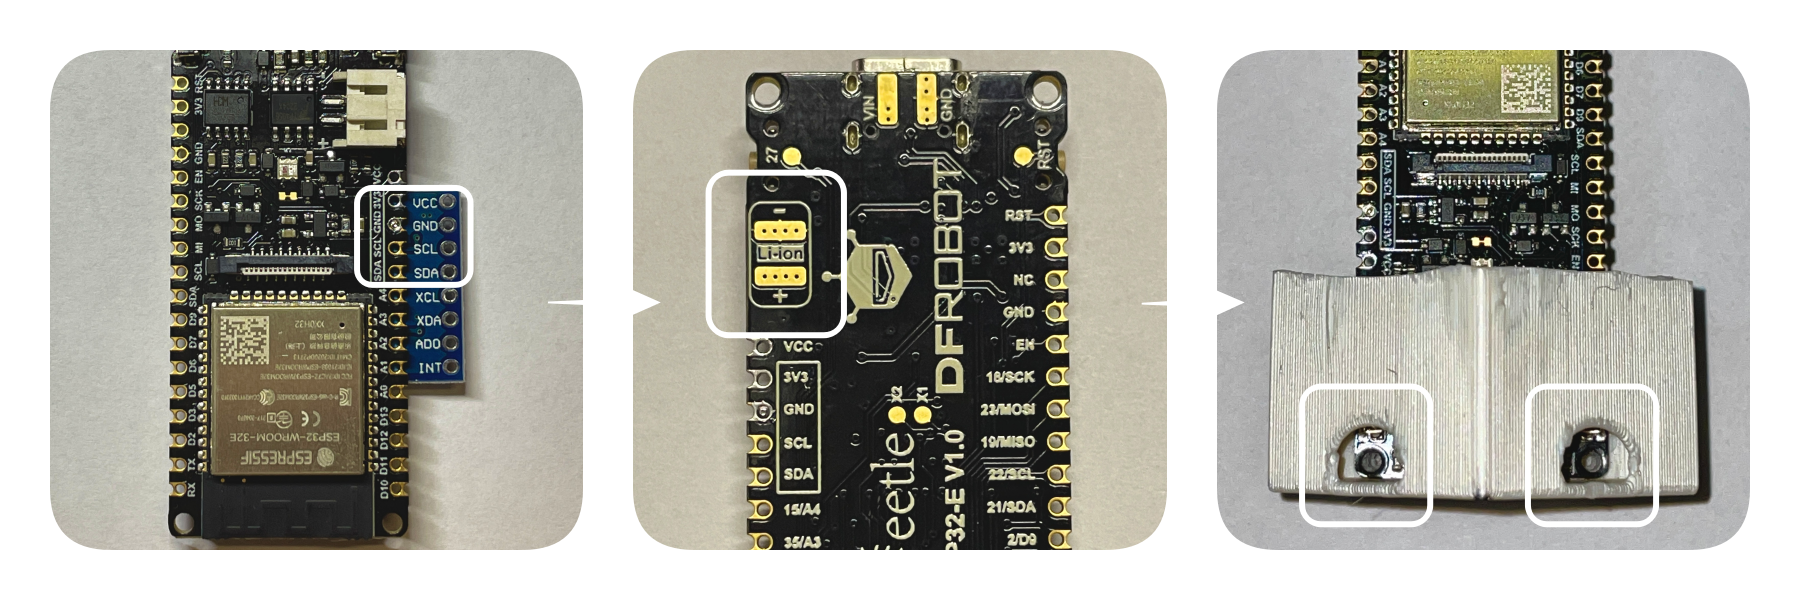
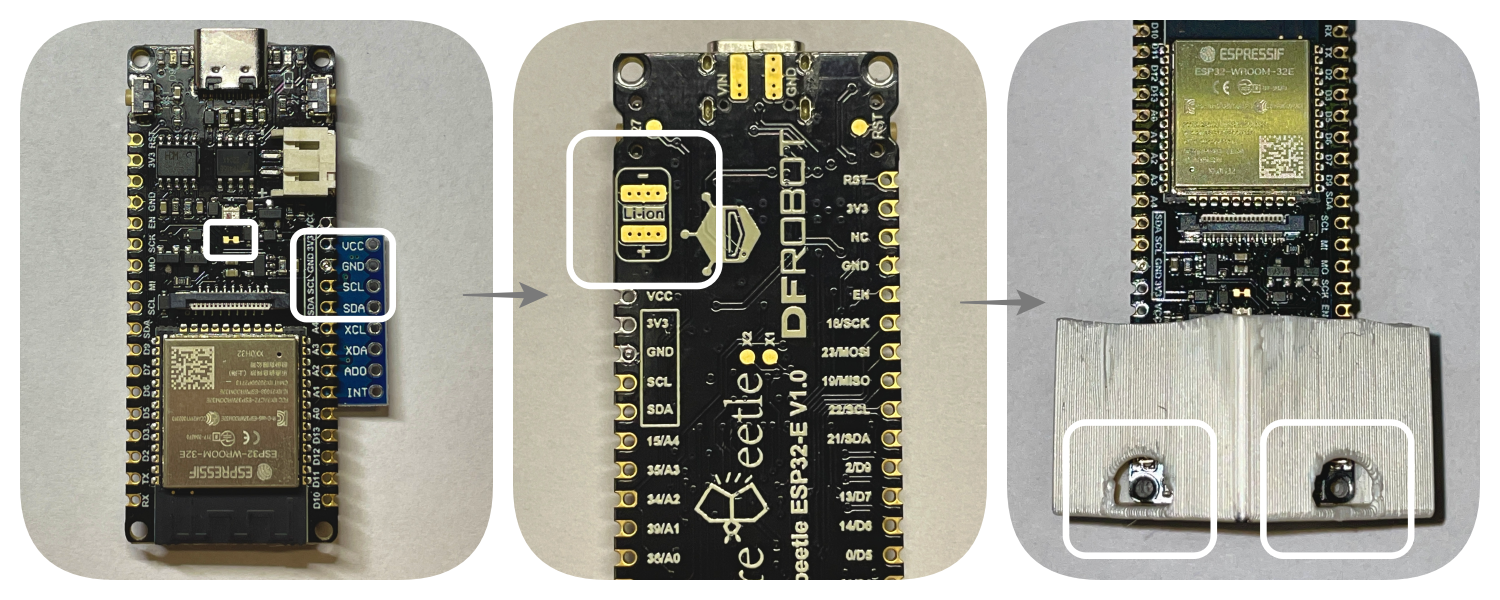
Low power trace cut

diff --git a/README.md b/README.md
@@ -26,7 +26,6 @@ In order to start with your own DIY tracker you will go through these steps:
 Alright, time to build the tracker :game_die: Here is the list of parts you need :gear:
 
 - [DFRobot Firebeetle ESP32](https://wiki.dfrobot.com/FireBeetle_Board_ESP32_E_SKU_DFR0654) (currently the only supported board)
-
 - [MPU6050 Accelometer](https://components101.com/sensors/mpu6050-module)
 - Battery (lithium) of your choice, single cell, with the right shape you can fit any up to 1000mAh. Mind that Firebeetle has no any protection circuit
 - 3D printed parts (models available in docs/ )
@@ -43,6 +42,7 @@ Equipment you might need for assembly:
 
 ![Steps](docs/images/hwBuild.png)
 
+- Cut the trace between exposed pads (be careful not to cut the other traces)
 - Solder MPU6050 to Firebeetle. Match the pins from MPU :exclamation: Mind that MPU's VCC pin should connect to 3V3 on the beetle
 - Take your battery and solder its terminals to pads on the beetle's bottom side
 - Attach battery to Firebeetle board (suggestion: tape)
@@ -58,7 +58,7 @@ Connect USB-C cable, charge the battery and upload software!
 
 ![Steps](docs/images/consumption.png)
 
-An average current consumption on FireBeetle is around 1.3 mA (to be improved) Deep sleep consumption is 400uA. Time on battery you can calculate as follows: </br>`90% * capacity[mAh] / avg_consumption[mA] = time[h]`. </br>Other boards might yield different results. When looking for an alternative board pay attention to what components on the board are powered from 3V3 rail, an example is USB to UART converter present on almost every board, they are usually connected to 3V3, so they will drain your battery. Lolin32 Lite seems to be the closest suitable alternative, but since it has no connection from battery to ESP32 you might to hack a resistor divier and connect it to some analog input.
+An average current consumption on FireBeetle is around 500uA. Time on battery you can calculate as follows: </br>`90% * capacity[mAh] / avg_consumption[mA] = time[h]`. </br> Other boards might yield different results. When looking for an alternative board pay attention to what components on the board are powered from 3V3 rail, an example is USB to UART converter present on almost every board, they are usually connected to 3V3, so they will drain your battery. Lolin32 Lite seems to be the closest suitable alternative, but since it has no connection from battery to ESP32 you might to hack a resistor divier and connect it to some analog input.
 </br>
 Cube app will remind you about low battery level.
 
